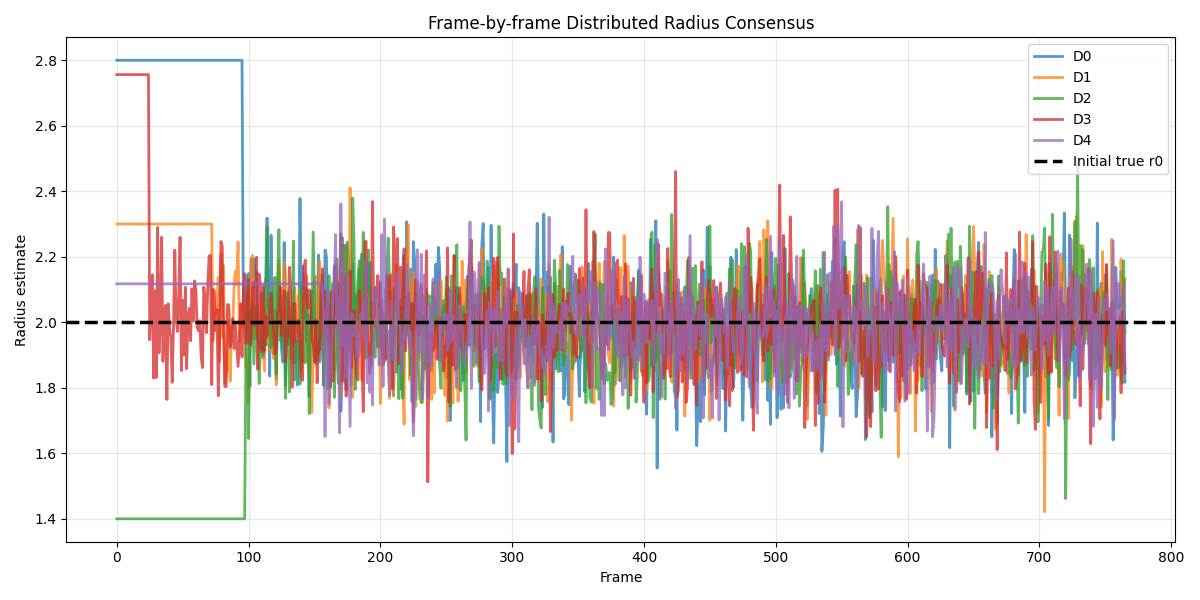
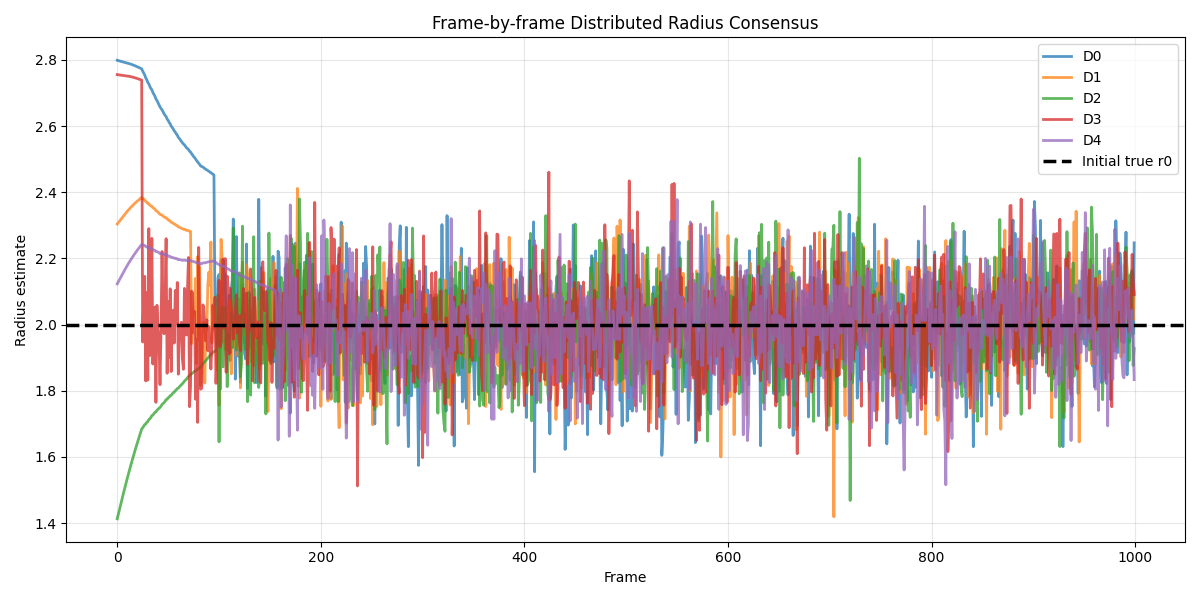
init

diff --git a/simulation_engine.py b/simulation_engine.py
@@ -31,6 +31,7 @@ class SimulationEngine:
         self.edge_band = 0.35
         self.min_search_speed = 0.35
         self.max_search_speed = 0.75
+        self.debug_wls = False
 
         # Shared / evolving radius estimate
         self.estimate_r0 = None
@@ -239,6 +240,12 @@ class SimulationEngine:
         # 0) State update + local measurement only near the spill border
         for d in self.drones:
             dist_to_center = np.hypot(d.x - self.true_x0, d.y - self.true_y0)
+            dist_error = abs(dist_to_center - d.estimate_r0)
+            epsilon = 1e-3
+            w_i = 1.0 / (dist_error**2 + epsilon)
+            w_i = np.clip(w_i, 0.01, 100.0)
+            d.weight = float(w_i)
+
             near_edge = abs(dist_to_center - self.true_r0) <= self.edge_band
 
             if near_edge:
@@ -274,16 +281,20 @@ class SimulationEngine:
             self.estimates_history[d.drone_id]["y0"].append(d.estimate_y0)
             self.estimates_history[d.drone_id]["r0_pre"].append(d.estimate_r0)
 
-        # 1) Distributed consensus only among drones close to the border
-        if len(active_drones) > 1:
+        # 1) Distributed weighted least squares consensus on the radius estimate
+        if len(self.drones) > 1:
             alpha = min(self.k_consensus * self.dt, self.k_consensus)
             new_r0 = {}
-            for d in active_drones:
-                neighbors = [n for n in active_drones if n is not d]
-                mean_neighbors = np.mean([n.estimate_r0 for n in neighbors])
-                new_r0[d] = d.estimate_r0 + alpha * (mean_neighbors - d.estimate_r0)
-            for d in active_drones:
+            for d in self.drones:
+                neighbors = self.drones  # include all drones, including self
+                weights = np.array([n.weight for n in neighbors], dtype=float)
+                values = np.array([n.estimate_r0 for n in neighbors], dtype=float)
+                weighted_mean = np.sum(weights * values) / (np.sum(weights) + 1e-6)
+                new_r0[d] = d.estimate_r0 + alpha * (weighted_mean - d.estimate_r0)
+            for d in self.drones:
                 d.estimate_r0 = float(new_r0[d])
+                if self.debug_wls:
+                    print(f"{d.drone_id}: weight={d.weight:.3f}, r0={d.estimate_r0:.3f}")
 
         # Shared radius used by control law this frame
         self.estimate_r0 = float(np.mean([d.estimate_r0 for d in self.drones]))

diff --git a/drone.py b/drone.py
@@ -19,6 +19,7 @@ class Drone:
         self.vx = 0.0
         self.vy = 0.0
         self.search_speed = 0.0
+        self.weight = 1.0
 
         # Sensors
         self.gps = GPSSensor(noise_std=gps_noise)
